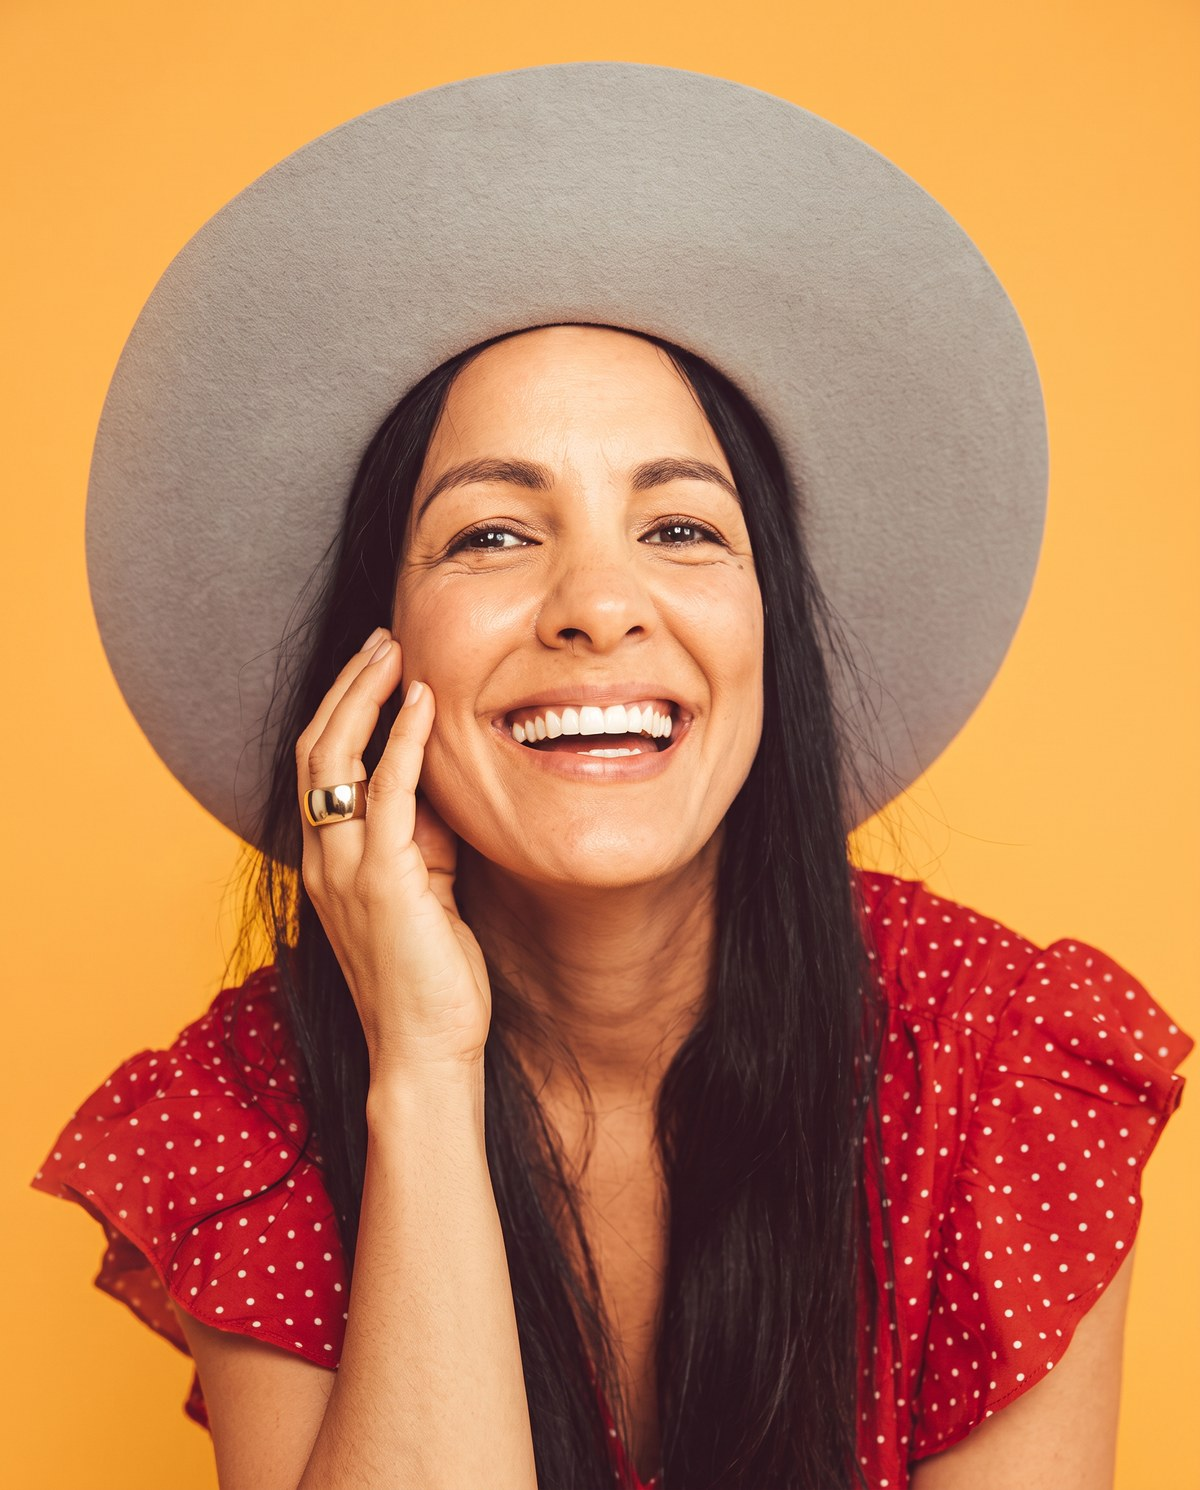
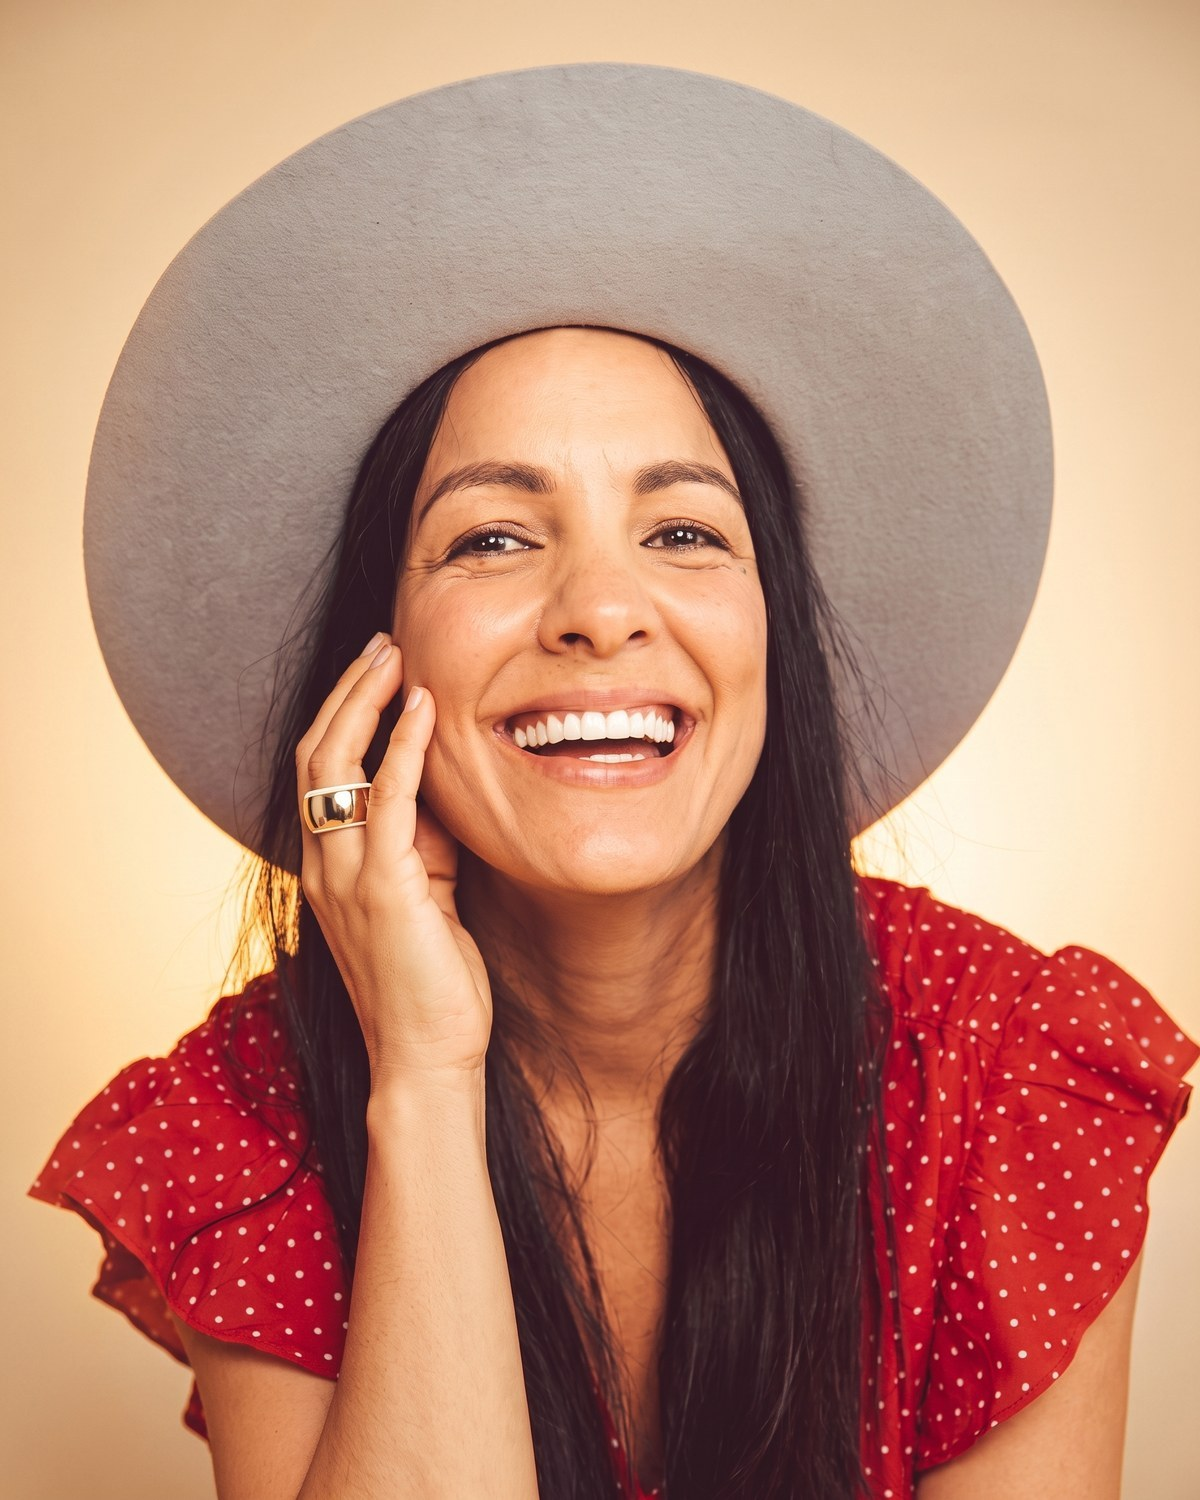
Honey portrait system: all five hosts unified (face 30%, eyes 32%, honey backdrop), dedicated chip crops, Brent ring fix

diff --git a/weeks/index.html b/weeks/index.html
@@ -288,7 +288,7 @@ a:focus-visible { outline: 2.5px solid var(--honey); outline-offset: 3px; border
       <span class="next-title"><span class="herefor">Here for</span> <span class="themeword themeword--gold">Belonging</span></span>
       <div class="next-host">with radha agrawal</div>
       <div class="next-chip">
-        <img src="images/radha-agrawal-hero.jpg" alt="">
+        <img src="images/radha-chip.jpg" alt="">
         <span class="chip-bio">co-founder of daybreaker &middot; the belong center &middot; author of belong</span><!-- VERIFY bio -->
       </div>
       <div class="next-dates">mon, oct 19 &ndash; fri, oct 23 &middot; live, from anywhere</div>
@@ -306,7 +306,7 @@ a:focus-visible { outline: 2.5px solid var(--honey); outline-offset: 3px; border
     </div>
 
     <a class="week-row" href="../one-host/" data-track="portal-w1">
-      <img class="week-thumb" src="images/cory-allen.jpg" alt="Cory Allen">
+      <img class="week-thumb" src="images/cory-chip.jpg" alt="Cory Allen">
       <span class="week-meta">
         <span class="num">wk 1 &middot; sept 21&ndash;25</span>
         <span class="week-name" style="display:block"><span class="herefor">Here for</span> <span class="themeword themeword--ink">Presence</span></span>
@@ -317,7 +317,7 @@ a:focus-visible { outline: 2.5px solid var(--honey); outline-offset: 3px; border
 
     <a class="week-row" href="../peace/" data-track="portal-w2">
       <!-- VERIFY: confirm spelling of Kronfli with Patrick before publish -->
-      <img class="week-thumb" src="images/patrick-kronfli-hero.jpg" alt="Patrick Kronfli">
+      <img class="week-thumb" src="images/patrick-chip.jpg" alt="Patrick Kronfli">
       <span class="week-meta">
         <span class="num">wk 2 &middot; sept 28&ndash;oct 2</span>
         <span class="week-name" style="display:block"><span class="herefor">Here for</span> <span class="themeword themeword--ink">Peace</span></span>
@@ -327,7 +327,7 @@ a:focus-visible { outline: 2.5px solid var(--honey); outline-offset: 3px; border
     </a>
 
     <a class="week-row" href="../joy/" data-track="portal-w3">
-      <img class="week-thumb" src="images/brent-freeman-hero.jpg" alt="Brent Freeman">
+      <img class="week-thumb" src="images/brent-chip.jpg" alt="Brent Freeman">
       <span class="week-meta">
         <span class="num">wk 3 &middot; oct 5&ndash;9</span>
         <span class="week-name" style="display:block"><span class="herefor">Here for</span> <span class="themeword themeword--ink">Joy</span></span>
@@ -337,7 +337,7 @@ a:focus-visible { outline: 2.5px solid var(--honey); outline-offset: 3px; border
     </a>
 
     <a class="week-row" href="../pleasure/" data-track="portal-w4">
-      <img class="week-thumb" src="images/emily-fletcher-hero.jpg" alt="Emily Fletcher">
+      <img class="week-thumb" src="images/emily-chip.jpg" alt="Emily Fletcher">
       <span class="week-meta">
         <span class="num">wk 4 &middot; oct 12&ndash;16</span>
         <span class="week-name" style="display:block"><span class="herefor">Here for</span> <span class="themeword themeword--ink">Pleasure</span></span>

diff --git a/belonging/index.html b/belonging/index.html
@@ -1347,7 +1347,7 @@ a.work-tile:hover .work-link { text-decoration-thickness: 2px; }
       <span class="ho-title"><span class="ho-herefor">Here for</span> <span class="ho-theme">Belonging</span></span>
       <span class="ho-host">with radha agrawal</span>
       <div class="host-chip rv rv-d2">
-        <img src="images/radha-agrawal-hero.jpg" alt="">
+        <img src="images/radha-chip.jpg" alt="">
         <span class="chip-bio">co-founder of daybreaker &middot; the belong center &middot; author of belong</span><!-- VERIFY bio line before publish -->
       </div>
     </div>

diff --git a/pleasure/index.html b/pleasure/index.html
@@ -1347,7 +1347,7 @@ a.work-tile:hover .work-link { text-decoration-thickness: 2px; }
       <span class="ho-title"><span class="ho-herefor">Here for</span> <span class="ho-theme">Pleasure</span></span>
       <span class="ho-host">with emily fletcher</span>
       <div class="host-chip rv rv-d2">
-        <img src="images/emily-fletcher-hero.jpg" alt="">
+        <img src="images/emily-chip.jpg" alt="">
         <span class="chip-bio">founder of ziva meditation &middot; author of stress less, accomplish more</span><!-- VERIFY bio line before publish -->
       </div>
     </div>

diff --git a/one-host/index.html b/one-host/index.html
@@ -1338,7 +1338,7 @@ a.work-tile:hover .work-link { text-decoration-thickness: 2px; }
       <span class="ho-title"><span class="ho-herefor">Here for</span> <span class="ho-theme">Presence</span></span>
       <span class="ho-host">with cory allen</span>
       <div class="host-chip rv rv-d2">
-        <img src="images/cory-allen.jpg" alt="">
+        <img src="images/cory-chip.jpg" alt="">
         <span class="chip-bio">meditation teacher &middot; author of now is the way &middot; host of the astral hustle</span><!-- VERIFY bio line before publish -->
       </div>
     </div>

diff --git a/joy/index.html b/joy/index.html
@@ -1347,7 +1347,7 @@ a.work-tile:hover .work-link { text-decoration-thickness: 2px; }
       <span class="ho-title"><span class="ho-herefor">Here for</span> <span class="ho-theme">Joy</span></span>
       <span class="ho-host">with brent freeman</span>
       <div class="host-chip rv rv-d2">
-        <img src="images/brent-freeman-hero.jpg" alt="">
+        <img src="images/brent-chip.jpg" alt="">
         <span class="chip-bio">founder of alchemy of joy &middot; author &middot; teacher of everyday joy</span><!-- VERIFY bio line before publish -->
       </div>
     </div>

diff --git a/peace/index.html b/peace/index.html
@@ -1349,7 +1349,7 @@ a.work-tile:hover .work-link { text-decoration-thickness: 2px; }
       <span class="ho-title"><span class="ho-herefor">Here for</span> <span class="ho-theme">Peace</span></span>
       <span class="ho-host">with patrick kronfli</span>
       <div class="host-chip rv rv-d2">
-        <img src="images/patrick-kronfli-hero.jpg" alt="">
+        <img src="images/patrick-chip.jpg" alt="">
         <span class="chip-bio">co-founder of unify &middot; global synchronized meditations</span><!-- VERIFY bio line before publish -->
       </div>
     </div>
